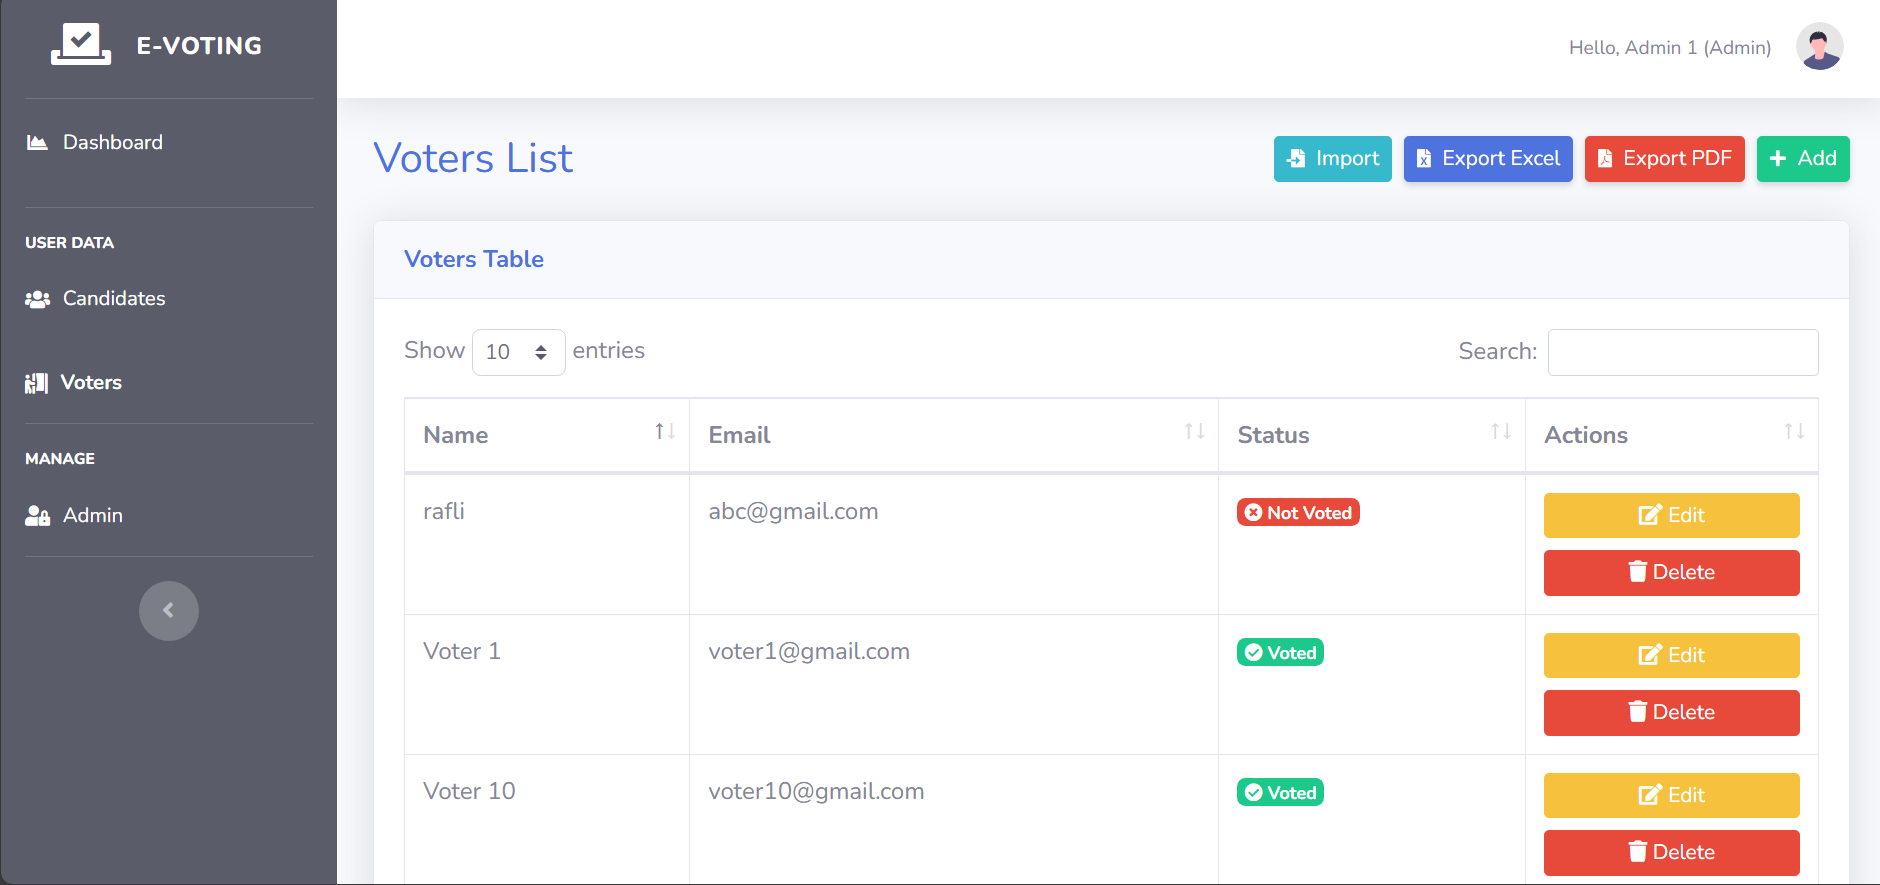
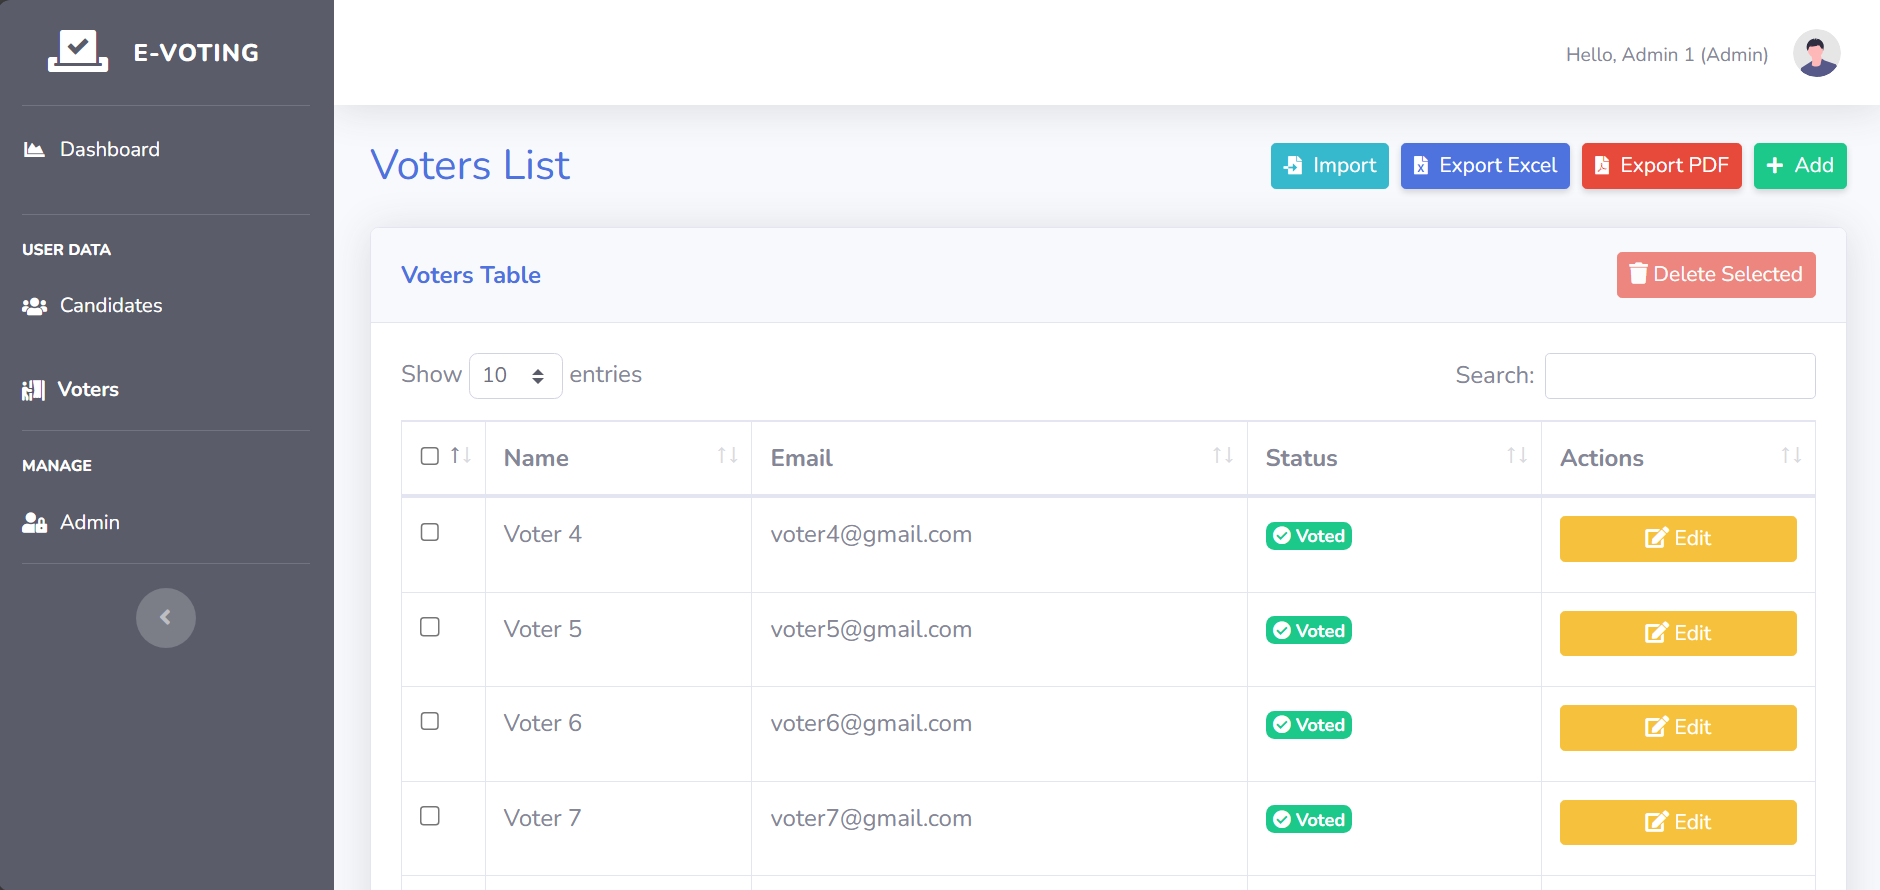
add; voters (single delete -> mass delete)

diff --git a/resources/views/voters/components/table.blade.php b/resources/views/voters/components/table.blade.php
@@ -1,13 +1,21 @@
     <!-- DataTables Example -->
     <div class="card shadow mb-4">
-        <div class="card-header py-3">
+        <div class="card-header py-3 d-flex justify-content-between align-items-center">
             <h6 class="m-0 font-weight-bold text-primary">Voters Table</h6>
+            <button id="deleteSelectedBtn" class="btn btn-danger btn-sm" disabled>
+                <i class="fas fa-trash"></i> Delete Selected
+            </button>
         </div>
         <div class="card-body">
+            <form id="massDeleteForm" action="{{ route('voters.massDelete') }}" method="post">
+                @csrf
             <div class="table-responsive">
                 <table class="table table-bordered" id="dataTable" width="100%" cellspacing="0">
                     <thead>
                         <tr>
+                            <th width="5%">
+                                <input type="checkbox" id="selectAll">
+                            </th>
                             <th>Name</th>
                             <th>Email</th>
                             <th>Status</th>
@@ -17,6 +25,9 @@
                     <tbody>
                         @foreach ($voters as $voter)
                             <tr>
+                                <td>
+                                    <input type="checkbox" name="selected_ids[]" value="{{ $voter->id }}" class="voter-checkbox">
+                                </td>
                                 <td>{{ $voter->name }}</td>
                                 <td>{{ $voter->email }}</td>
                                 <td id="status-{{ $voter->id }}">
@@ -36,23 +47,67 @@
                                         <i class="fas fa-edit" style="font-size: 0.875rem;"></i>
                                         <span>Edit</span>
                                     </button>
-                                    <form action="{{ route('voters.destroy', $voter->id) }}" method="post"
-                                        class="d-inline">
-                                        @csrf
-                                        @method('DELETE')
-                                        <button class="btn btn-danger btn-sm btn-block" aria-label="Delete Voter"
-                                            onclick="return confirm('Delete this data?')">
-                                            <i class="fas fa-trash" style="font-size: 0.875rem;"></i>
-                                            <span>Delete</span>
-                                        </button>
-                                    </form>
                                 </td>
                             </tr>
                         @endforeach
                     </tbody>
                 </table>
             </div>
+        </form>
         </div>
     </div>
 
     @include('voters.components.modal')
+
+    <script>
+        document.addEventListener('DOMContentLoaded', function() {
+            const selectAllCheckbox = document.getElementById('selectAll');
+            const voterCheckboxes = document.querySelectorAll('.voter-checkbox');
+            const deleteSelectedBtn = document.getElementById('deleteSelectedBtn');
+            const massDeleteForm = document.getElementById('massDeleteForm');
+        
+            // Toggle all checkboxes
+            selectAllCheckbox.addEventListener('change', function() {
+                const isChecked = this.checked;
+                
+                voterCheckboxes.forEach(checkbox => {
+                    checkbox.checked = isChecked;
+                });
+                
+                updateDeleteButtonState();
+            });
+        
+            // Individual checkbox change handler
+            voterCheckboxes.forEach(checkbox => {
+                checkbox.addEventListener('change', function() {
+                    updateDeleteButtonState();
+                    
+                    // Update "select all" checkbox state
+                    const allChecked = Array.from(voterCheckboxes).every(cb => cb.checked);
+                    const someChecked = Array.from(voterCheckboxes).some(cb => cb.checked);
+                    
+                    selectAllCheckbox.checked = allChecked;
+                    selectAllCheckbox.indeterminate = someChecked && !allChecked;
+                });
+            });
+        
+            // Update delete button state based on selections
+            function updateDeleteButtonState() {
+                const hasSelection = Array.from(voterCheckboxes).some(cb => cb.checked);
+                deleteSelectedBtn.disabled = !hasSelection;
+            }
+        
+            // Handle delete selected button click
+            deleteSelectedBtn.addEventListener('click', function(e) {
+                e.preventDefault();
+                
+                const selectedCount = Array.from(voterCheckboxes).filter(cb => cb.checked).length;
+                
+                if (selectedCount > 0) {
+                    if (confirm(`Are you sure you want to delete ${selectedCount} selected voter(s)?`)) {
+                        massDeleteForm.submit();
+                    }
+                }
+            });
+        });
+        </script>

diff --git a/app/Http/Controllers/VotersController.php b/app/Http/Controllers/VotersController.php
@@ -98,12 +98,12 @@ class VotersController extends Controller
     /**
      * Remove the specified resource from storage.
      */
-    public function destroy(string $id)
-    {
-        User::destroy($id);
+    // public function destroy(string $id)
+    // {
+    //     User::destroy($id);
 
-        return redirect()->route('voters.index')->with('message', 'Data deleted successfully!');
-    }
+    //     return redirect()->route('voters.index')->with('message', 'Data deleted successfully!');
+    // }
 
     public function exportExcel()
     {
@@ -205,4 +205,18 @@ class VotersController extends Controller
 
         return redirect()->route('voters.index')->with('message', 'Data berhasil diimpor!');
     }
+
+    public function massDelete(Request $request)
+    {
+        $request->validate([
+            'selected_ids' => 'required|array',
+            'selected_ids.*' => 'exists:users,id'
+        ]);
+
+        $selectedIds = $request->input('selected_ids', []);
+        $deletedCount = User::whereIn('id', $selectedIds)->delete();
+
+        return redirect()->route('voters.index')->with('message', $deletedCount . ' voters deleted successfully!');
+    }
+
 }

diff --git a/routes/web.php b/routes/web.php
@@ -33,10 +33,11 @@ Route::middleware(['auth', 'check.user.role'])->group(function () {
     });
 
     Route::resource('candidate', CandidateController::class)->except(['create', 'show']);
-    Route::resource('voters', VotersController::class)->except(['create', 'show']);
+    Route::resource('voters', VotersController::class)->except(['create', 'show', 'destroy']);
     Route::get('/voters/export/excel', [VotersController::class, 'exportExcel'])->name('voters.export.excel');
     Route::get('/voters/export/pdf', [VotersController::class, 'exportPdf'])->name('voters.export.pdf');
     Route::post('/voters/import/excel', [VotersController::class, 'importExcel'])->name('voters.import.excel');
+    Route::post('/voters/mass-delete', [VotersController::class, 'massDelete'])->name('voters.massDelete');
     Route::resource('admin', AdminController::class)->except(['create', 'show']);
 
     Route::prefix('voter')->name('voter.')->controller(VoterController::class)->group(function () {
